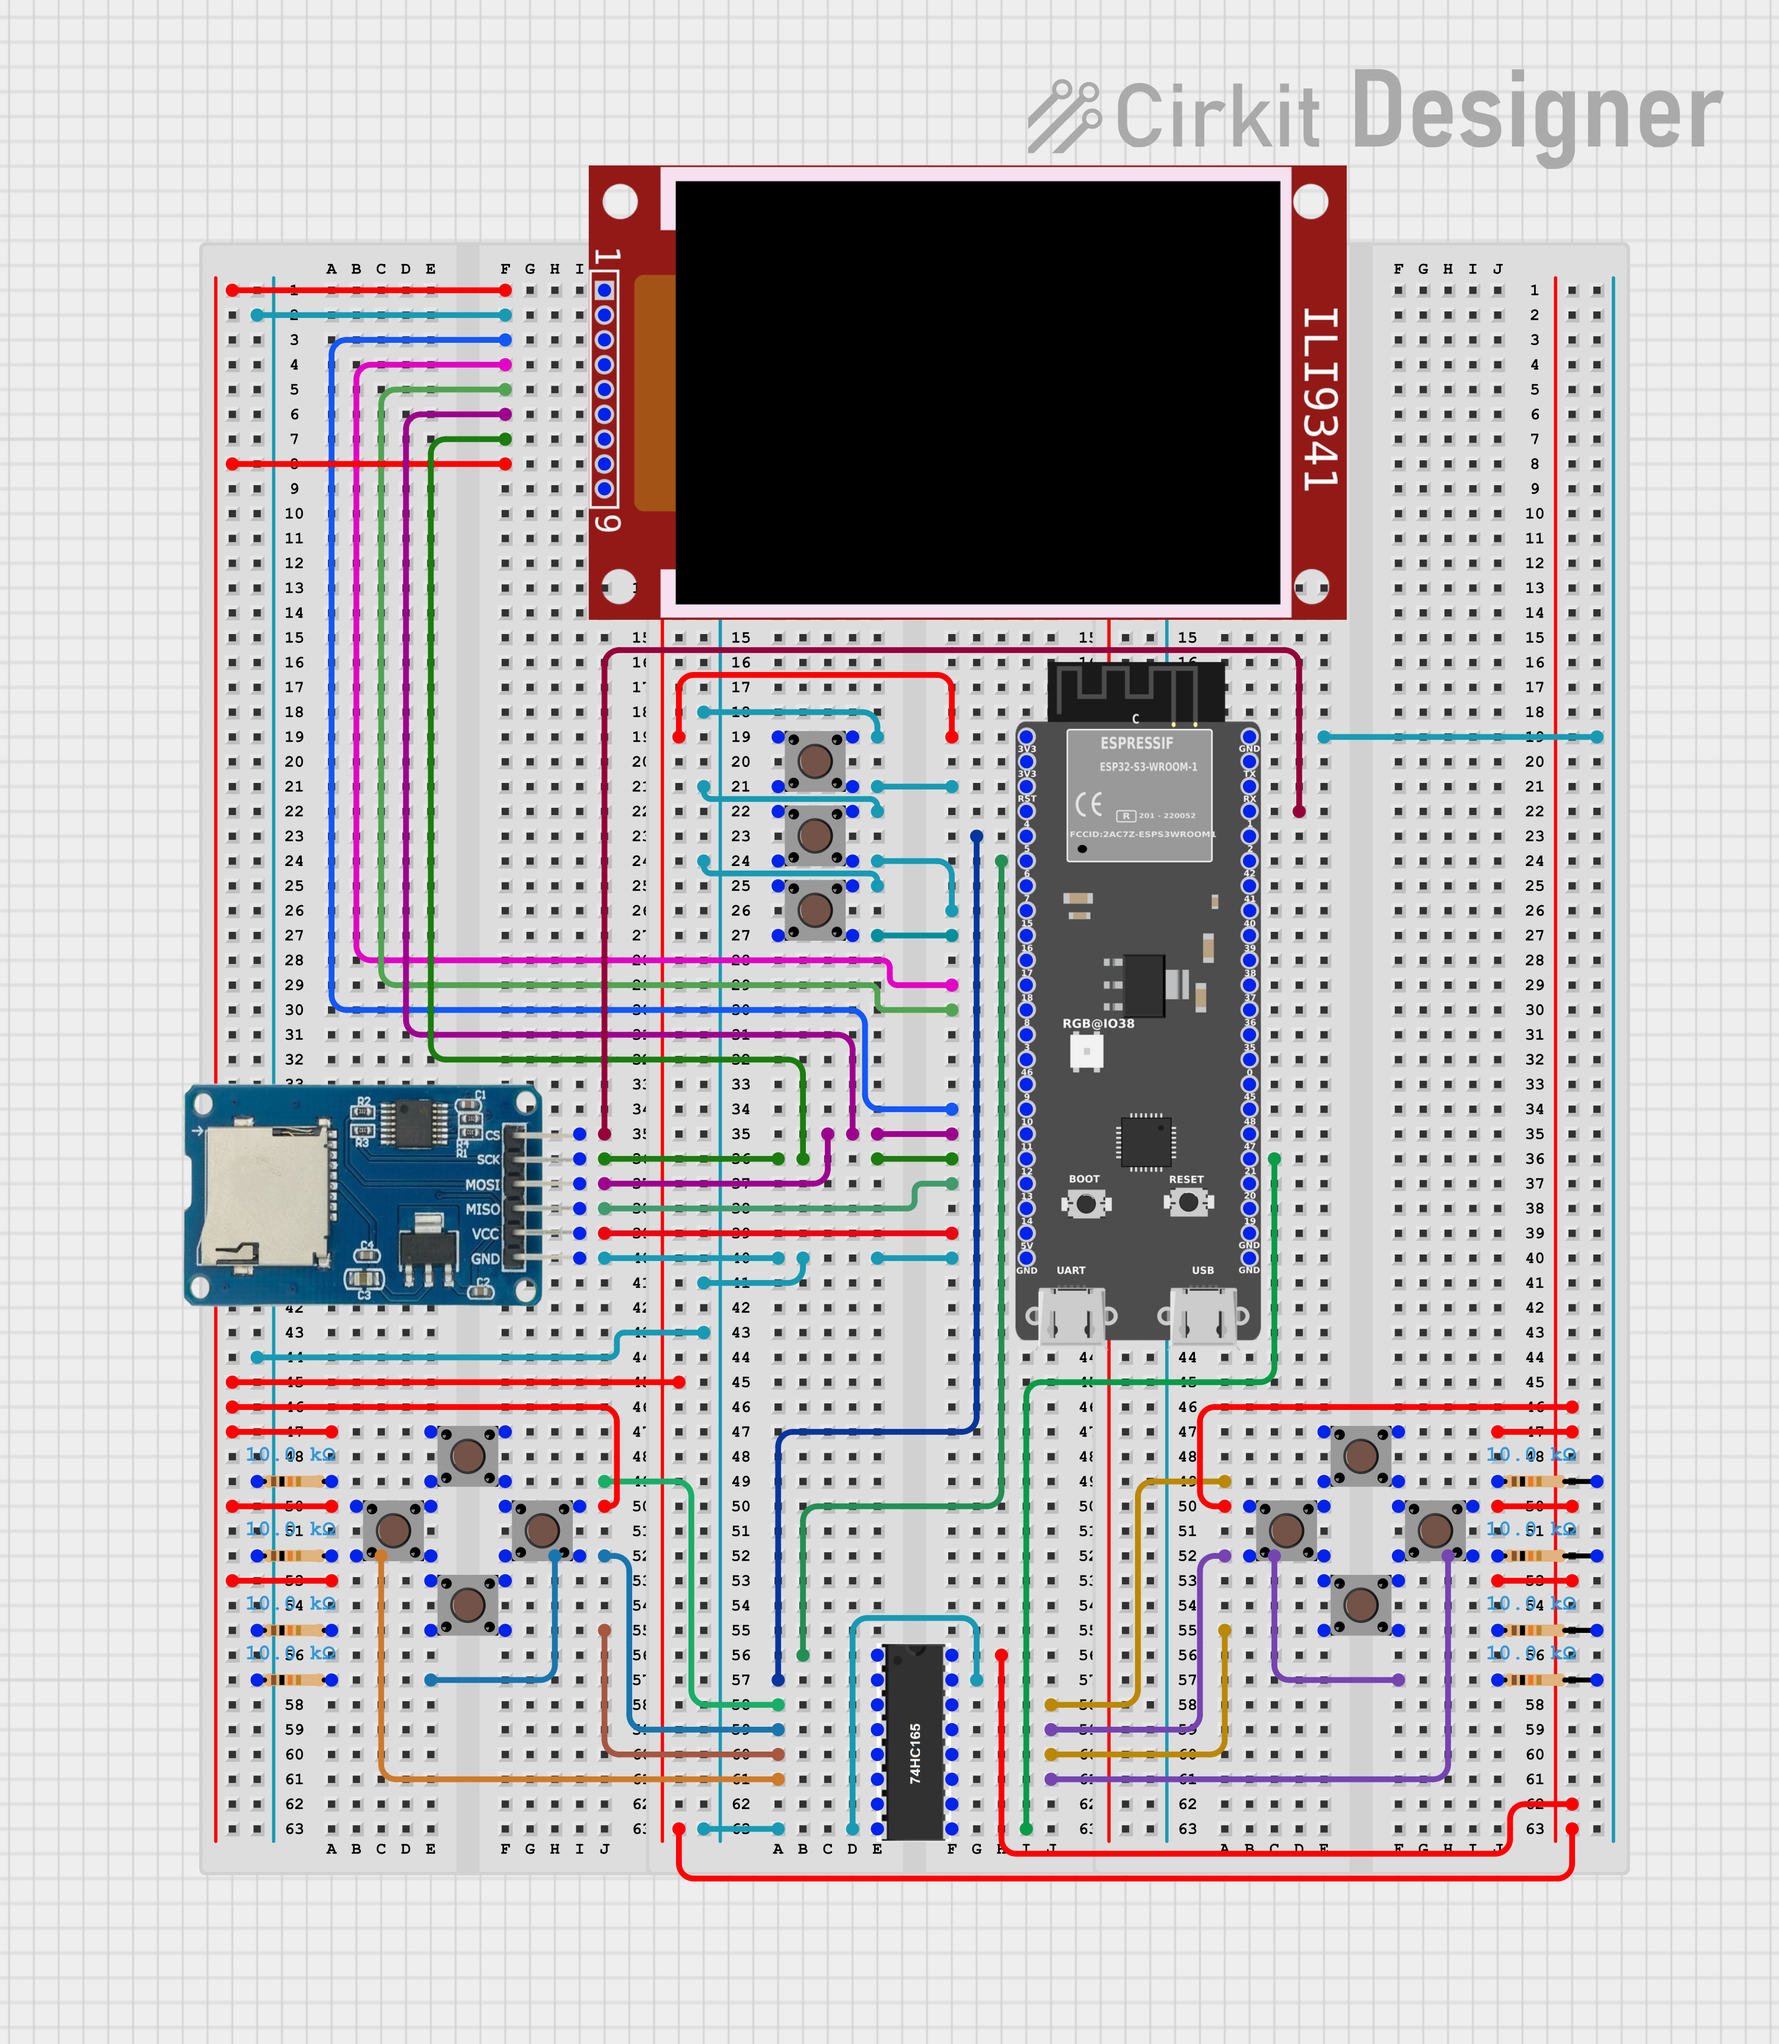
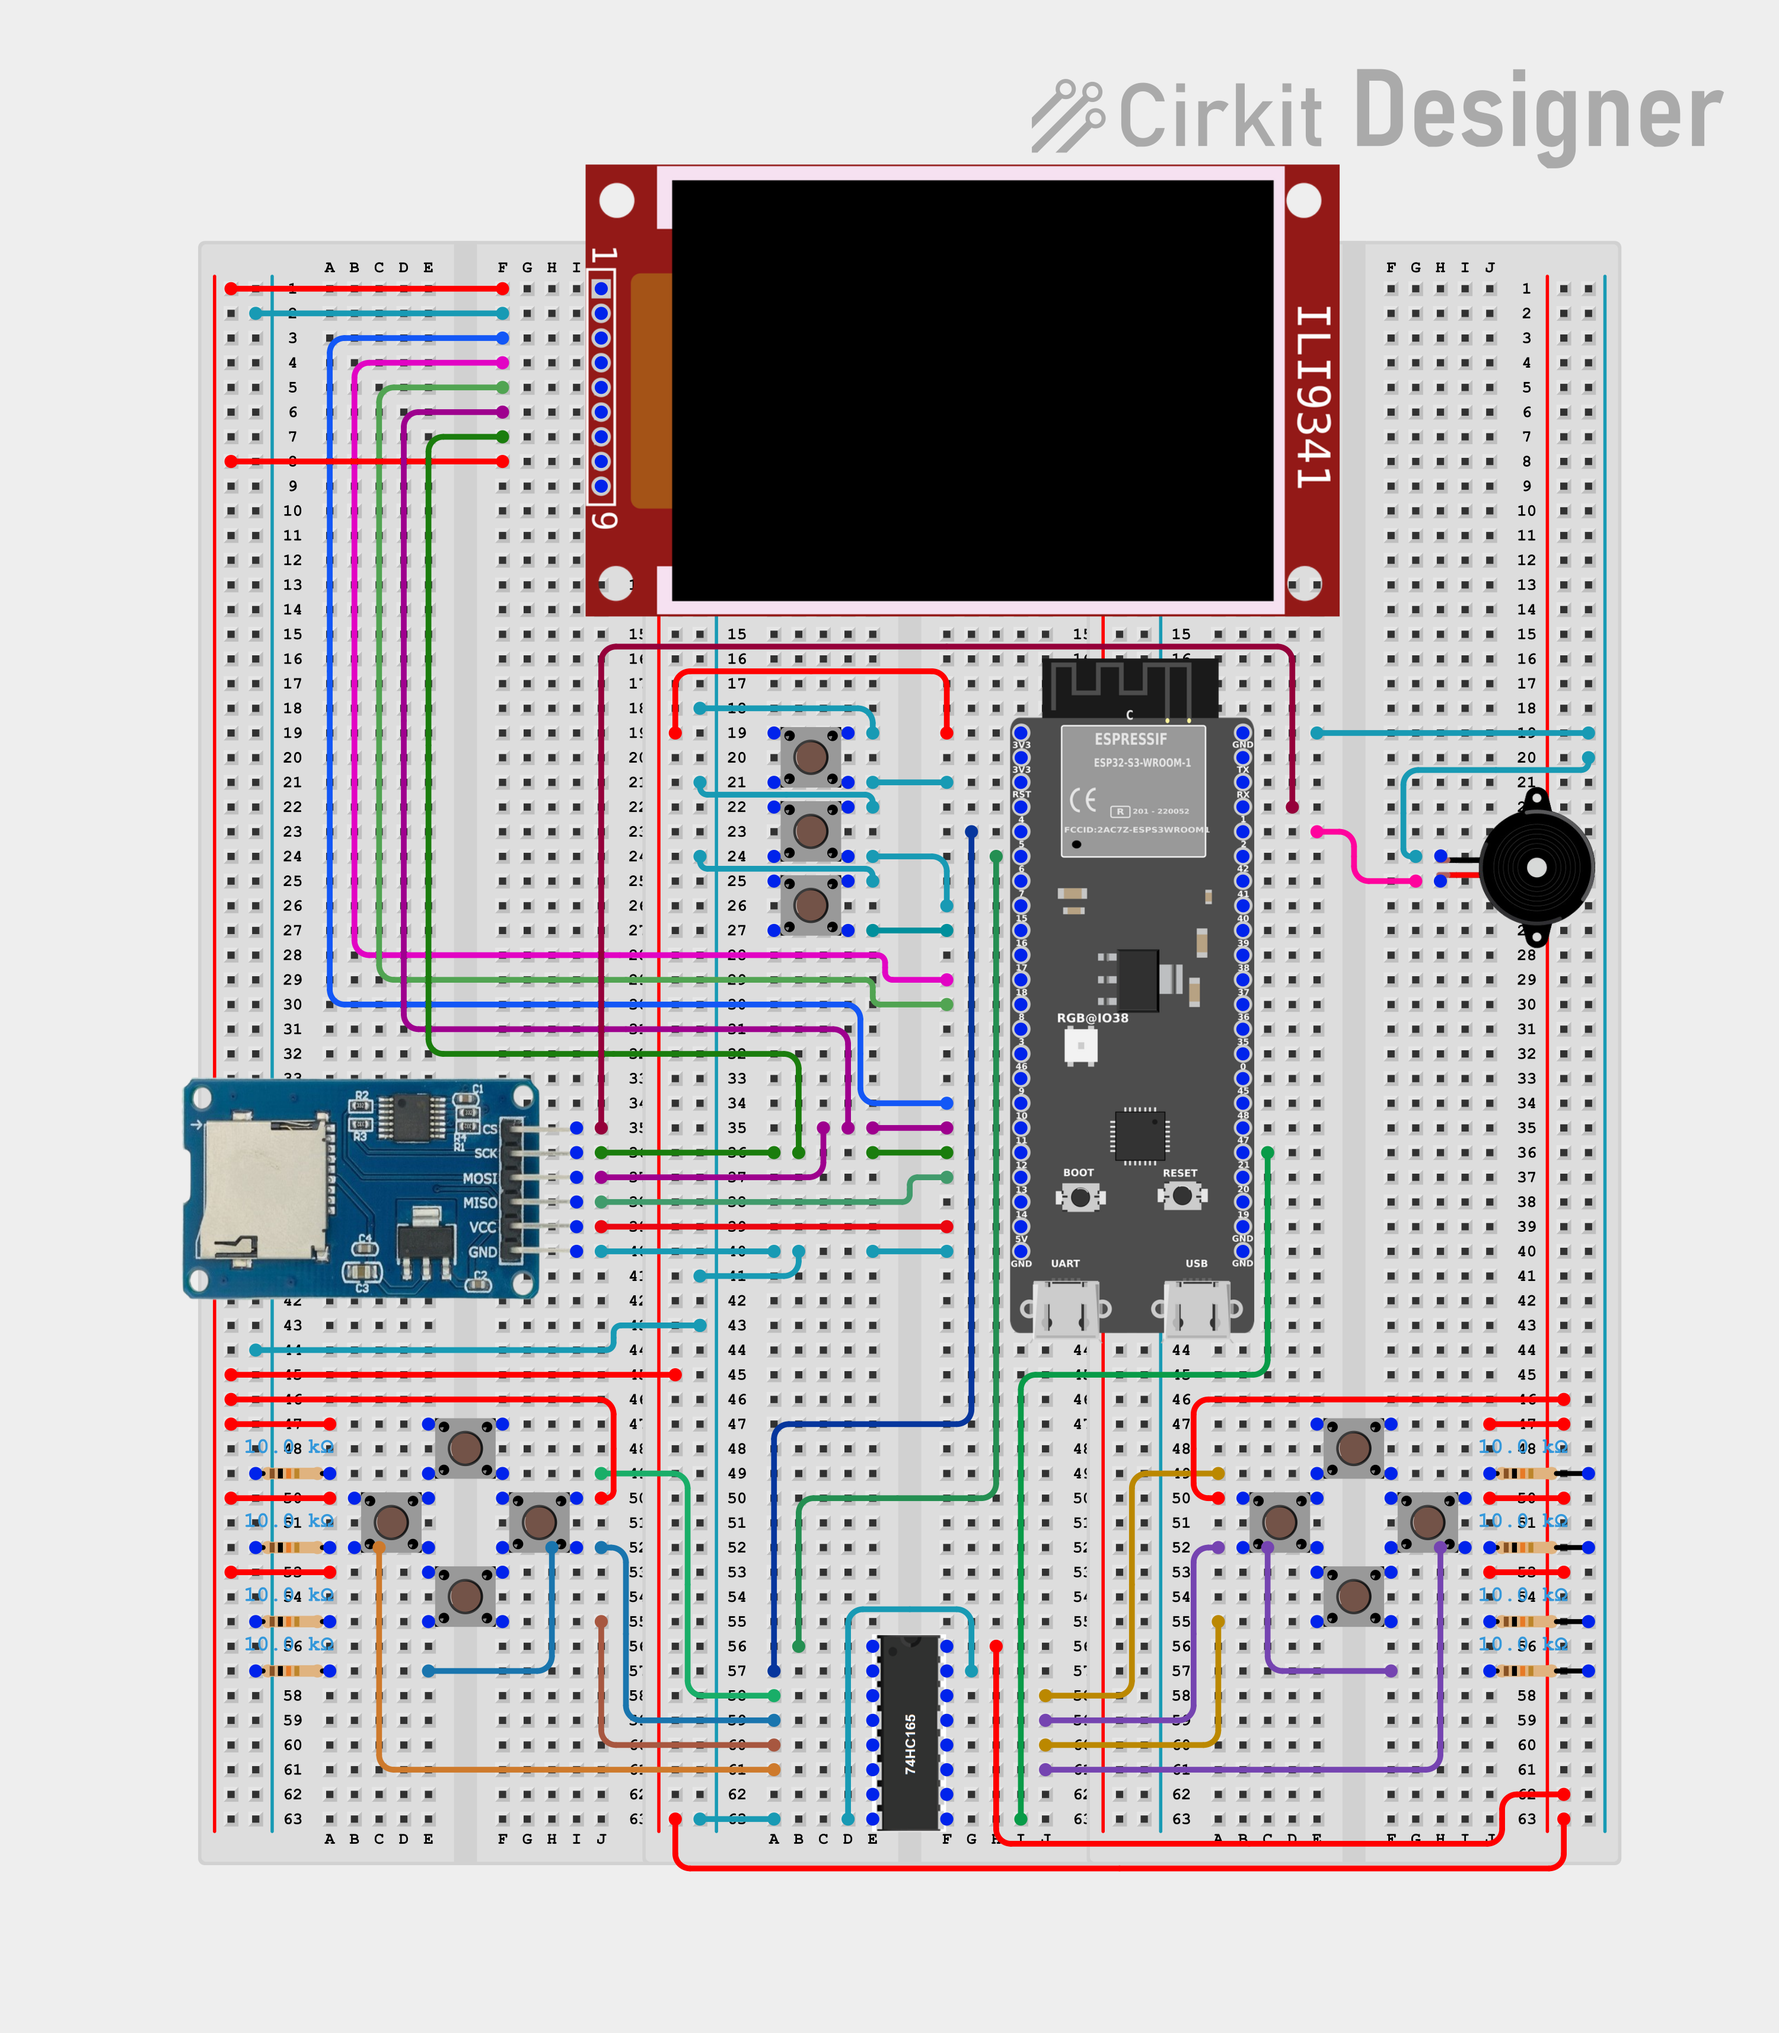
UPDATE circuit diagram

Changed region(s): [[0.124, 0.0312, 0.93, 0.9364], [0.093, 0.5306, 0.124, 0.6555]]

diff --git a/README.md b/README.md
@@ -19,4 +19,6 @@ Firmware of the ESP-32 based handheld console IONES.
 #### To do all above at once, run:
 `$ idf.py build flash run`
 
+[Open in Cirkit Designer](https://app.cirkitdesigner.com/project/4b4589c4-bea5-4c5b-9cf2-a128dabae6d1)
+
 ![Breadboard Wiring Diagram](./repo_assets/iones_final.png)
